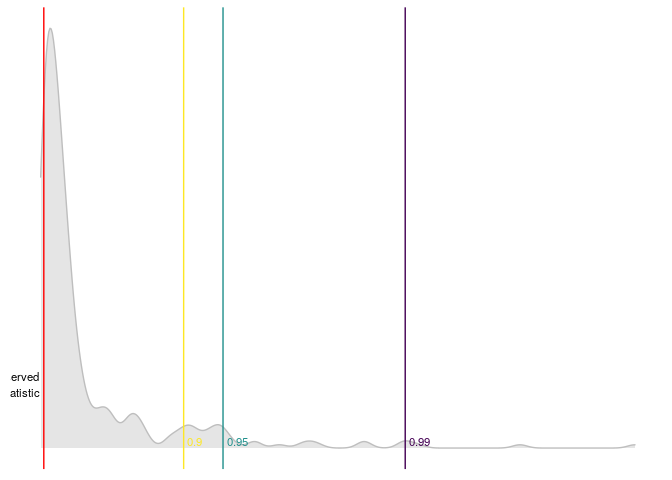
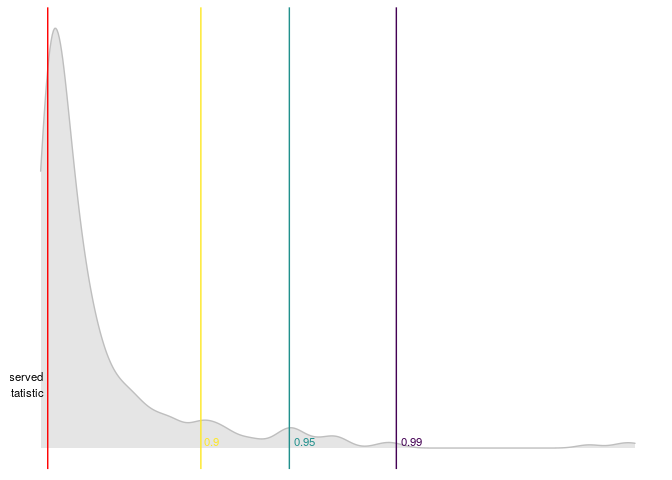
adding citation and updating description

Changed region(s): [[0.0, 0.0, 0.6562, 0.9688], [0.8438, 0.9062, 0.9375, 0.9375], [0.75, 0.9062, 0.7812, 0.9375]]

diff --git a/README.md b/README.md
@@ -19,13 +19,6 @@ model:
 Using the Domínguez-Lobato test which relies on wild-bootstrap. Also the
 Ramsey RESET test is implemented.
 
-## References
-
-  - Manuel A. Domínguez and Ignacio N. Lobato (2019). [Specification
-    testing with estimated
-    variables.](https://www.tandfonline.com/doi/citedby/10.1080/07474938.2019.1687116?)
-    Econometric Reviews.
-
 ## Installation
 
 You can install the released version of `lineartestr` from
@@ -41,6 +34,19 @@ And the development version from [GitHub](https://github.com/) with:
 # install.packages("devtools")
 devtools::install_github("FedericoGarza/lineartestr")
 ```
+
+## References
+
+  - Manuel A. Domínguez and Ignacio N. Lobato (2019). [*Specification
+    testing with estimated
+    variables.*](https://www.tandfonline.com/doi/citedby/10.1080/07474938.2019.1687116?)
+    Econometric Reviews.
+
+## Cite as
+
+  - Garza F (2020). *lineartestr: Test the linear specification of a
+    model*. R package version 1.0.0,
+    <https://github.com/FedericoGarza/lineartestr>.
 
 ## Examples
 
@@ -64,10 +70,10 @@ dplyr::glimpse(dl_test$test)
 #> $ name_distribution <chr> "rnorm"
 #> $ name_statistic    <chr> "cvm_value"
 #> $ statistic         <dbl> 7.562182e-29
-#> $ p_value           <dbl> 0.42
-#> $ quantile_90       <dbl> 2.903875e-28
-#> $ quantile_95       <dbl> 3.660387e-28
-#> $ quantile_99       <dbl> 5.240289e-28
+#> $ p_value           <dbl> 0.3766667
+#> $ quantile_90       <dbl> 2.283939e-28
+#> $ quantile_95       <dbl> 3.239602e-28
+#> $ quantile_99       <dbl> 5.20654e-28
 ```
 
 Also `lineartestr` can plot the results
@@ -97,10 +103,10 @@ dplyr::glimpse(dl_test_p$test)
 #> $ name_distribution <chr> "rnorm"
 #> $ name_statistic    <chr> "cvm_value"
 #> $ statistic         <dbl> 6.324343e-21
-#> $ p_value           <dbl> 0.29
-#> $ quantile_90       <dbl> 1.597342e-20
-#> $ quantile_95       <dbl> 2.599619e-20
-#> $ quantile_99       <dbl> 4.303673e-20
+#> $ p_value           <dbl> 0.34
+#> $ quantile_90       <dbl> 2.059126e-20
+#> $ quantile_95       <dbl> 2.425963e-20
+#> $ quantile_99       <dbl> 4.429028e-20
 ```
 
 #### *RESET* test can also be used to test the linear hypothesis
@@ -120,8 +126,8 @@ r_test <- reset_test(lm_model)
 dplyr::glimpse(r_test)
 #> Observations: 1
 #> Variables: 6
-#> $ statistic   <dbl> 0.1049317
-#> $ p_value     <dbl> 0.9488867
+#> $ statistic   <dbl> 5.07063
+#> $ p_value     <dbl> 0.07923674
 #> $ df          <int> 2
 #> $ quantile_90 <dbl> 4.60517
 #> $ quantile_95 <dbl> 5.991465
@@ -137,7 +143,7 @@ plot_reset_test(r_test)
 
 <img src="man/figures/README-plot_reset-1.png" width="70%" />
 
-### Linear fixed effects with [`lfe`](https://cran.R-project.org/web/packages/lfe/lfe.pdf)
+### Linear fixed effects with [`lfe`](https://CRAN.R-project.org/web/packages/lfe/lfe.pdf)
 
 ``` r
 library(lineartestr)
